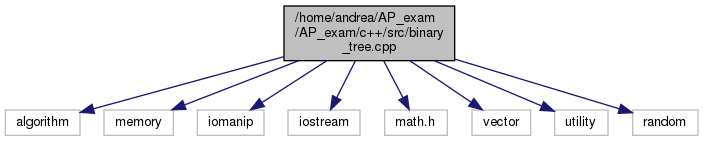
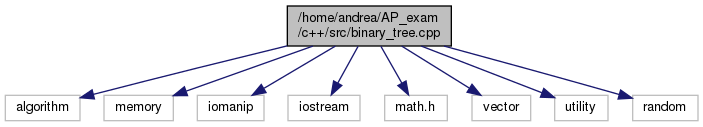
doc updated

diff --git a/c++/docs/html/class_tree.html b/c++/docs/html/class_tree.html
@@ -137,12 +137,7 @@ Private Attributes</h2></td></tr>
 <tr class="memitem:a22698aa570d5a7e4f6aac7fb806951fa"><td class="memItemLeft" align="right" valign="top">std::unique_ptr&lt; <a class="el" href="struct_tree_1_1_node.html">Node</a> &gt;&#160;</td><td class="memItemRight" valign="bottom"><a class="el" href="class_tree.html#a22698aa570d5a7e4f6aac7fb806951fa">root</a> = nullptr</td></tr>
 <tr class="separator:a22698aa570d5a7e4f6aac7fb806951fa"><td class="memSeparator" colspan="2">&#160;</td></tr>
 </table>
-<a name="details" id="details"></a><h2 class="groupheader">Detailed Description</h2>
-<div class="textblock"><h3>template&lt;class K, class T&gt;<br />
-class Tree&lt; K, T &gt;</h3>
-
-<p>generates a random string of given length, for benchmarking purposes </p>
-</div><h2 class="groupheader">Member Function Documentation</h2>
+<h2 class="groupheader">Member Function Documentation</h2>
 <a id="a00ce6aff91c5db444ea932cb9c0ef11b"></a>
 <h2 class="memtitle"><span class="permalink"><a href="#a00ce6aff91c5db444ea932cb9c0ef11b">&#9670;&nbsp;</a></span>addNode()</h2>
 
@@ -178,7 +173,6 @@ template&lt;class K , class T &gt; </div>
   </tr>
 </table>
 </div><div class="memdoc">
-<p>const iterator to the node after the one with the highest key (so nullptr), for const Trees </p>
 <p>add a node provided key and value compatible with the tree </p>
 
 </div>
@@ -208,7 +202,6 @@ template&lt;class K , class T &gt; </div>
   </tr>
 </table>
 </div><div class="memdoc">
-<p>Tree height </p>
 <p>helper function to traverse left nodes until there is any, giving the min(key) </p>
 
 </div>
@@ -266,6 +259,7 @@ template&lt;class K , class T &gt; </div>
   </tr>
 </table>
 </div><div class="memdoc">
+<p>Helper function: creates an std::vector and push every pair(key,value) of the tree nodes in it. </p>
 
 </div>
 </div>
@@ -320,6 +314,7 @@ template&lt;class K , class T &gt; </div>
   </tr>
 </table>
 </div><div class="memdoc">
+<p>iterator to the node with the lowest key </p>
 
 </div>
 </div>
@@ -347,7 +342,7 @@ template&lt;class K , class T &gt; </div>
   </tr>
 </table>
 </div><div class="memdoc">
-<p>iterator to the node with the lowest key </p>
+<p>iterator to the node with the lowest key, for const Trees </p>
 
 </div>
 </div>
@@ -375,7 +370,7 @@ template&lt;class K , class T &gt; </div>
   </tr>
 </table>
 </div><div class="memdoc">
-<p>iterator to the node with the lowest key, for const Trees </p>
+<p>const iterator to the node with the lowest key, for const Trees </p>
 
 </div>
 </div>
@@ -403,7 +398,7 @@ template&lt;class K , class T &gt; </div>
   </tr>
 </table>
 </div><div class="memdoc">
-<p>iterator to the node after the one with the highest key (so nullptr), for const Trees </p>
+<p>const iterator to the node after the one with the highest key (so nullptr), for const Trees </p>
 
 </div>
 </div>
@@ -459,7 +454,7 @@ template&lt;class K , class T &gt; </div>
   </tr>
 </table>
 </div><div class="memdoc">
-<p>tree deletion: later: set root to nullptr, destroy recursively all nodes </p>
+<p>tree deletion: sets root to nullptr, destroy recursively all nodes </p>
 
 </div>
 </div>
@@ -487,7 +482,7 @@ template&lt;class K , class T &gt; </div>
   </tr>
 </table>
 </div><div class="memdoc">
-<p>const iterator to the node with the lowest key, for const Trees </p>
+<p>iterator to the node after the one with the highest key (so nullptr) </p>
 
 </div>
 </div>
@@ -515,7 +510,7 @@ template&lt;class K , class T &gt; </div>
   </tr>
 </table>
 </div><div class="memdoc">
-<p>iterator to the node after the one with the highest key (so nullptr) </p>
+<p>iterator to the node after the one with the highest key (so nullptr), for const Trees </p>
 
 </div>
 </div>
@@ -572,7 +567,7 @@ template&lt;class K , class T &gt; </div>
   </tr>
 </table>
 </div><div class="memdoc">
-<p>iterates the tree in order </p>
+<p>iterates the tree in order, printing key-value entries </p>
 
 </div>
 </div>
@@ -601,6 +596,7 @@ template&lt;class K , class T &gt; </div>
   </tr>
 </table>
 </div><div class="memdoc">
+<p>recursive helper function, called by balance() function tree balance function. calls arrayOfNodes() to linearize the tree, then creates a balanced tree </p>
 
 </div>
 </div>
@@ -733,7 +729,7 @@ template&lt;class K , class T &gt; </div>
         </tr>
       </table>
 </div><div class="memdoc">
-<p>pointer to tree root node </p>
+<p>Returns tree height </p>
 
 </div>
 </div>
@@ -758,11 +754,12 @@ template&lt;class K , class T &gt; </div>
   </tr>
 </table>
 </div><div class="memdoc">
+<p>pointer to tree root node </p>
 
 </div>
 </div>
 <hr/>The documentation for this class was generated from the following file:<ul>
-<li>/home/andrea/AP_exam/AP_exam/c++/src/<a class="el" href="binary__tree_8cpp.html">binary_tree.cpp</a></li>
+<li>/home/andrea/AP_exam/c++/src/<a class="el" href="binary__tree_8cpp.html">binary_tree.cpp</a></li>
 </ul>
 </div><!-- contents -->
 <!-- start footer part -->

diff --git a/c++/docs/html/class_tree_1_1iterator.html b/c++/docs/html/class_tree_1_1iterator.html
@@ -116,12 +116,7 @@ Friends</h2></td></tr>
 <tr class="memitem:aad2b3926ed1e2db6f22ca3117766181b"><td class="memItemLeft" align="right" valign="top">bool&#160;</td><td class="memItemRight" valign="bottom"><a class="el" href="class_tree_1_1iterator.html#aad2b3926ed1e2db6f22ca3117766181b">operator!=</a> (const <a class="el" href="class_tree_1_1iterator.html">iterator</a> &amp;lhs, const <a class="el" href="class_tree_1_1iterator.html">iterator</a> &amp;rhs)</td></tr>
 <tr class="separator:aad2b3926ed1e2db6f22ca3117766181b"><td class="memSeparator" colspan="2">&#160;</td></tr>
 </table>
-<a name="details" id="details"></a><h2 class="groupheader">Detailed Description</h2>
-<div class="textblock"><h3>template&lt;class K, class T&gt;<br />
-class Tree&lt; K, T &gt;::iterator</h3>
-
-<p>STL compliant forward_iterator class </p>
-</div><h2 class="groupheader">Constructor &amp; Destructor Documentation</h2>
+<h2 class="groupheader">Constructor &amp; Destructor Documentation</h2>
 <a id="ae5e13400dff45c9120eb00d731ca2003"></a>
 <h2 class="memtitle"><span class="permalink"><a href="#ae5e13400dff45c9120eb00d731ca2003">&#9670;&nbsp;</a></span>iterator() <span class="overload">[1/3]</span></h2>
 
@@ -419,7 +414,7 @@ template&lt;class K , class T &gt; </div>
 </div>
 </div>
 <hr/>The documentation for this class was generated from the following file:<ul>
-<li>/home/andrea/AP_exam/AP_exam/c++/src/<a class="el" href="binary__tree_8cpp.html">binary_tree.cpp</a></li>
+<li>/home/andrea/AP_exam/c++/src/<a class="el" href="binary__tree_8cpp.html">binary_tree.cpp</a></li>
 </ul>
 </div><!-- contents -->
 <!-- start footer part -->

diff --git a/c++/docs/html/binary__tree_8cpp.html b/c++/docs/html/binary__tree_8cpp.html
@@ -5,7 +5,7 @@
 <meta http-equiv="X-UA-Compatible" content="IE=9"/>
 <meta name="generator" content="Doxygen 1.8.13"/>
 <meta name="viewport" content="width=device-width, initial-scale=1"/>
-<title>Binary Tree: /home/andrea/AP_exam/AP_exam/c++/src/binary_tree.cpp File Reference</title>
+<title>Binary Tree: /home/andrea/AP_exam/c++/src/binary_tree.cpp File Reference</title>
 <link href="tabs.css" rel="stylesheet" type="text/css"/>
 <script type="text/javascript" src="jquery.js"></script>
 <script type="text/javascript" src="dynsections.js"></script>
@@ -85,7 +85,7 @@ $(function() {
 </div><div class="textblock"><div class="dynheader">
 Include dependency graph for binary_tree.cpp:</div>
 <div class="dyncontent">
-<div class="center"><img src="binary__tree_8cpp__incl.png" border="0" usemap="#_2home_2andrea_2_a_p__exam_2_a_p__exam_2c_09_09_2src_2binary__tree_8cpp" alt=""/></div>
+<div class="center"><img src="binary__tree_8cpp__incl.png" border="0" usemap="#_2home_2andrea_2_a_p__exam_2c_09_09_2src_2binary__tree_8cpp" alt=""/></div>
 </div>
 </div><table class="memberdecls">
 <tr class="heading"><td colspan="2"><h2 class="groupheader"><a name="nested-classes"></a>
@@ -209,6 +209,12 @@ template&lt;class K , class T &gt; </div>
         </tr>
       </table>
 </div><div class="memdoc">
+<dl class="params"><dt>Parameters</dt><dd>
+  <table class="params">
+    <tr><td class="paramname">length</td><td>generates a random string of given length, for benchmarking purposes </td></tr>
+  </table>
+  </dd>
+</dl>
 
 </div>
 </div>

diff --git a/c++/docs/html/struct_tree_1_1_node.html b/c++/docs/html/struct_tree_1_1_node.html
@@ -166,6 +166,7 @@ template&lt;class K , class T &gt; </div>
   </tr>
 </table>
 </div><div class="memdoc">
+<p>node constructor by declared value </p>
 
 </div>
 </div>
@@ -183,6 +184,7 @@ template&lt;class K , class T &gt; </div>
         </tr>
       </table>
 </div><div class="memdoc">
+<p>Node key, templated on K </p>
 
 </div>
 </div>
@@ -199,7 +201,7 @@ template&lt;class K , class T &gt; </div>
         </tr>
       </table>
 </div><div class="memdoc">
-<p>Node value, templated on T </p>
+<p>unique pointer to the left node </p>
 
 </div>
 </div>
@@ -216,7 +218,6 @@ template&lt;class K , class T &gt; </div>
         </tr>
       </table>
 </div><div class="memdoc">
-<p>unique pointer to the right node </p>
 
 </div>
 </div>
@@ -233,7 +234,7 @@ template&lt;class K , class T &gt; </div>
         </tr>
       </table>
 </div><div class="memdoc">
-<p>unique pointer to the left node </p>
+<p>unique pointer to the right node </p>
 
 </div>
 </div>
@@ -250,12 +251,12 @@ template&lt;class K , class T &gt; </div>
         </tr>
       </table>
 </div><div class="memdoc">
-<p>Node key, templated on K </p>
+<p>Node value, templated on T </p>
 
 </div>
 </div>
 <hr/>The documentation for this struct was generated from the following file:<ul>
-<li>/home/andrea/AP_exam/AP_exam/c++/src/<a class="el" href="binary__tree_8cpp.html">binary_tree.cpp</a></li>
+<li>/home/andrea/AP_exam/c++/src/<a class="el" href="binary__tree_8cpp.html">binary_tree.cpp</a></li>
 </ul>
 </div><!-- contents -->
 <!-- start footer part -->

diff --git a/c++/docs/html/map__benchmark_8cpp.html b/c++/docs/html/map__benchmark_8cpp.html
@@ -5,7 +5,7 @@
 <meta http-equiv="X-UA-Compatible" content="IE=9"/>
 <meta name="generator" content="Doxygen 1.8.13"/>
 <meta name="viewport" content="width=device-width, initial-scale=1"/>
-<title>Binary Tree: /home/andrea/AP_exam/AP_exam/c++/src/map_benchmark.cpp File Reference</title>
+<title>Binary Tree: /home/andrea/AP_exam/c++/src/map_benchmark.cpp File Reference</title>
 <link href="tabs.css" rel="stylesheet" type="text/css"/>
 <script type="text/javascript" src="jquery.js"></script>
 <script type="text/javascript" src="dynsections.js"></script>
@@ -76,7 +76,7 @@ $(function() {
 </div><div class="textblock"><div class="dynheader">
 Include dependency graph for map_benchmark.cpp:</div>
 <div class="dyncontent">
-<div class="center"><img src="map__benchmark_8cpp__incl.png" border="0" usemap="#_2home_2andrea_2_a_p__exam_2_a_p__exam_2c_09_09_2src_2map__benchmark_8cpp" alt=""/></div>
+<div class="center"><img src="map__benchmark_8cpp__incl.png" border="0" usemap="#_2home_2andrea_2_a_p__exam_2c_09_09_2src_2map__benchmark_8cpp" alt=""/></div>
 </div>
 </div><table class="memberdecls">
 <tr class="heading"><td colspan="2"><h2 class="groupheader"><a name="func-members"></a>

diff --git a/c++/docs/html/readme_8md.html b/c++/docs/html/readme_8md.html
@@ -5,7 +5,7 @@
 <meta http-equiv="X-UA-Compatible" content="IE=9"/>
 <meta name="generator" content="Doxygen 1.8.13"/>
 <meta name="viewport" content="width=device-width, initial-scale=1"/>
-<title>Binary Tree: /home/andrea/AP_exam/AP_exam/c++/src/readme.md File Reference</title>
+<title>Binary Tree: /home/andrea/AP_exam/c++/src/readme.md File Reference</title>
 <link href="tabs.css" rel="stylesheet" type="text/css"/>
 <script type="text/javascript" src="jquery.js"></script>
 <script type="text/javascript" src="dynsections.js"></script>
@@ -61,7 +61,7 @@ $(function() {
 </div><!-- top -->
 <div class="header">
   <div class="headertitle">
-<div class="title">/home/andrea/AP_exam/AP_exam/c++/src/readme.md File Reference</div>  </div>
+<div class="title">/home/andrea/AP_exam/c++/src/readme.md File Reference</div>  </div>
 </div><!--header-->
 <div class="contents">
 </div><!-- contents -->

diff --git a/c++/docs/html/dir_68267d1309a1af8e8297ef4c3efbcdba.html b/c++/docs/html/dir_68267d1309a1af8e8297ef4c3efbcdba.html
@@ -5,7 +5,7 @@
 <meta http-equiv="X-UA-Compatible" content="IE=9"/>
 <meta name="generator" content="Doxygen 1.8.13"/>
 <meta name="viewport" content="width=device-width, initial-scale=1"/>
-<title>Binary Tree: /home/andrea/AP_exam/AP_exam/c++/src Directory Reference</title>
+<title>Binary Tree: /home/andrea/AP_exam/c++/src Directory Reference</title>
 <link href="tabs.css" rel="stylesheet" type="text/css"/>
 <script type="text/javascript" src="jquery.js"></script>
 <script type="text/javascript" src="dynsections.js"></script>

diff --git a/c++/docs/html/class_tree_1_1const__iterator.html b/c++/docs/html/class_tree_1_1const__iterator.html
@@ -414,7 +414,7 @@ template&lt;class K , class T &gt; </div>
 </div>
 </div>
 <hr/>The documentation for this class was generated from the following file:<ul>
-<li>/home/andrea/AP_exam/AP_exam/c++/src/<a class="el" href="binary__tree_8cpp.html">binary_tree.cpp</a></li>
+<li>/home/andrea/AP_exam/c++/src/<a class="el" href="binary__tree_8cpp.html">binary_tree.cpp</a></li>
 </ul>
 </div><!-- contents -->
 <!-- start footer part -->
